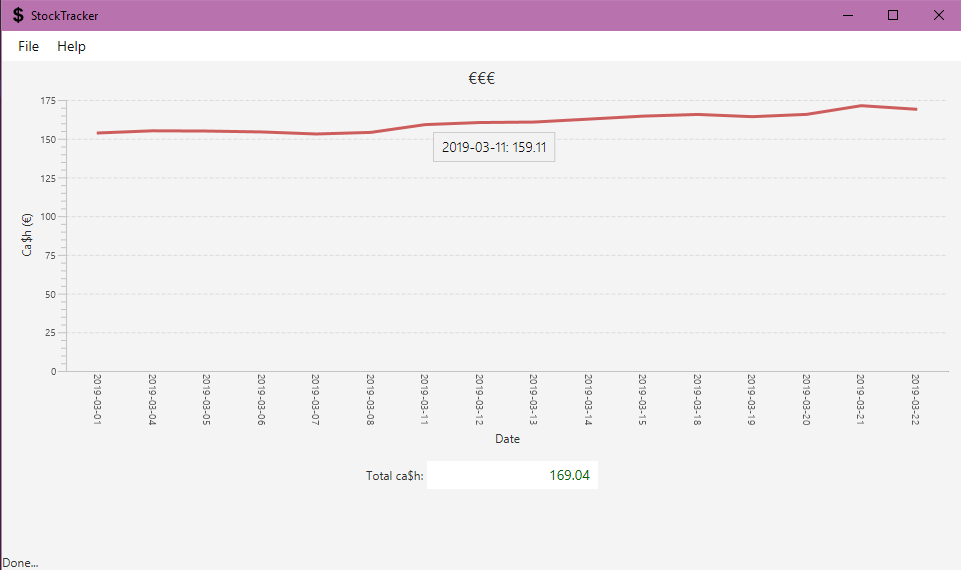
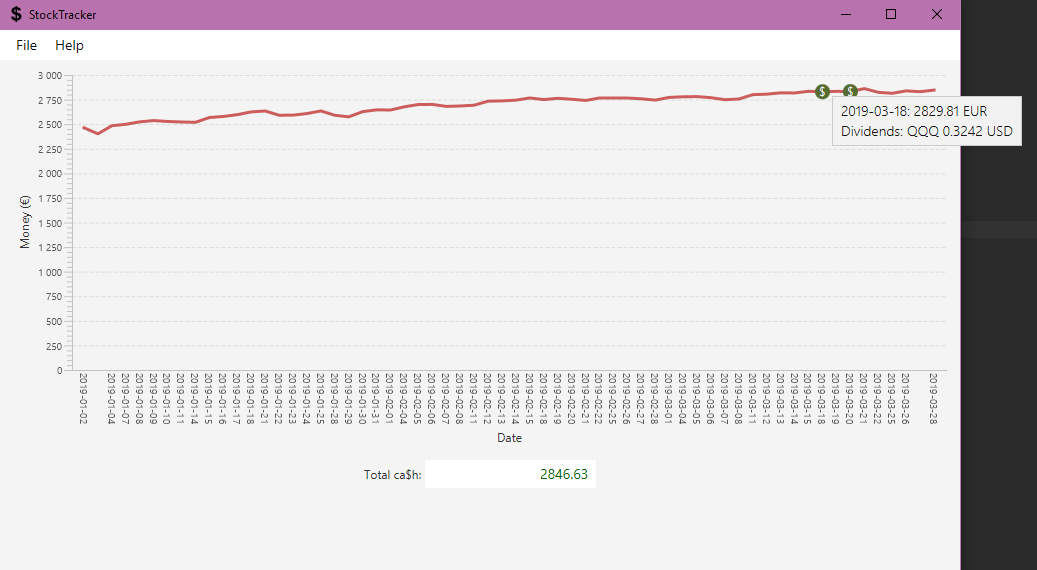
full support for displaying dividends + readme specifications

diff --git a/src/main/java/stocktracker/StockTrackerGUI.java b/src/main/java/stocktracker/StockTrackerGUI.java
@@ -7,16 +7,9 @@ import javafx.scene.Scene;
 import javafx.scene.chart.*;
 import javafx.scene.control.*;
 import javafx.scene.paint.Color;
-import javafx.scene.control.Button;
-import javafx.scene.control.Label;
-import javafx.scene.control.Menu;
-import javafx.scene.control.MenuBar;
-import javafx.scene.control.MenuItem;
-import javafx.scene.control.TextField;
 import javafx.scene.image.Image;
 import javafx.scene.layout.*;
 import javafx.scene.paint.ImagePattern;
-import javafx.scene.paint.Paint;
 import javafx.stage.Screen;
 import javafx.stage.Stage;
 import jfxtras.styles.jmetro8.JMetro;
@@ -24,10 +17,10 @@ import jfxtras.styles.jmetro8.JMetro;
 import java.io.File;
 import java.text.NumberFormat;
 import java.time.LocalDate;
-import java.util.ArrayList;
-import java.util.List;
+import java.util.*;
 
 //TODO: Add progress bars/loading indication
+//TODO: Add listener for pressing enter in "new tracker" scene as shortcut to go button
 
 public class StockTrackerGUI extends Application {
     private Stage primaryStage;
@@ -71,7 +64,7 @@ public class StockTrackerGUI extends Application {
         existingButton.setDisable(!new File(StockTracker.PATH + "save_config.csv").exists());
         existingButton.setOnAction(event -> {
             updateExistingData();
-            makeGraphScene(false);
+            makeGraphScene();
         });
         new JMetro(JMetro.Style.DARK).applyTheme(existingButton);
 
@@ -215,10 +208,10 @@ public class StockTrackerGUI extends Application {
         createConfig(dataList, amounts);
         calculateMoney(dataList, amounts);
         createSave();
-        makeGraphScene(true);
+        makeGraphScene();
     }
 
-    private void makeGraphScene(boolean newData) {
+    private void makeGraphScene() {
         VBox root = new VBox();
         setupMenuBar(root);
 
@@ -230,15 +223,22 @@ public class StockTrackerGUI extends Application {
         LineChart<String,Number> lineChart = new LineChart<>(xAxis,yAxis);
         lineChart.getStylesheets().add("style.css");
 
-        lineChart.setTitle("€€€");
         XYChart.Series<String, Number> series = new XYChart.Series<>();
-        //series.setName("My portfolio");
         double money = 0;
 
-        List<String> dividendList = FileManager.readLines(StockTracker.PATH + "save_dividends.csv");
-        List<String> divdates = new ArrayList<>();
-        for (String x: dividendList) {
-            divdates.add(x.split(",")[0]);
+        Map<String, String> dividendData = new HashMap<>();
+        for (String dividendEntry: FileManager.readLines(StockTracker.PATH + "save_dividends.csv")) {
+            String[] splitEntry = dividendEntry.split(",", 2);
+            String dividendInformation = "";
+            String[] split = splitEntry[1].split(",");
+            for (int i = 0; i < split.length; i++) {
+                String data = split[i];
+                dividendInformation = dividendInformation.concat(" " + data);
+                if (i % 3 == 0) {
+                    dividendInformation += "\n";
+                }
+            }
+            dividendData.put(splitEntry[0], splitEntry[1].replace(",", " "));
         }
 
         for (String line: FileManager.readLines(StockTracker.PATH + "save_data.csv")) {
@@ -247,15 +247,14 @@ public class StockTrackerGUI extends Application {
             String date = splitLine[0];
             XYChart.Data<String, Number> dataPoint = new XYChart.Data<>(date, money);
             dataPoint.setNode(new HoveredThresholdNode(date, money));
-            if (divdates.contains(date)) {
-                dataPoint.setNode(new DividendNode(date, money, "asd"));
+            if (dividendData.keySet().contains(date)) {
+                dataPoint.setNode(new DividendNode(date, money, "Dividends: " + dividendData.get(date)));
             }
             series.getData().add(dataPoint);
         }
         lineChart.setCreateSymbols(false);
         lineChart.setLegendVisible(false);
         lineChart.getData().add(series);
-        System.out.println("asd");
 
         HBox hBox = new HBox();
         Label label = new Label("Total ca$h: ");
@@ -317,12 +316,15 @@ public class StockTrackerGUI extends Application {
         }
     }
 
-    private class DividendNode extends HoveredThresholdNode {
+    private class DividendNode extends StackPane {
         private DividendNode(String date, Number value, String dividendInfo) {
-            super(date, value);
-            setBackground(new Background(new BackgroundFill(Color.DARKOLIVEGREEN, new CornerRadii(8), null)));
-            Tooltip tooltip = new Tooltip(date + ": " + value + "\n" + dividendInfo);
+            setPrefSize(15, 15);
+            setBackground(new Background(new BackgroundFill(Color.DARKOLIVEGREEN, new CornerRadii(12), null)));
+            Tooltip tooltip = new Tooltip(date + ": " + value + " EUR\n" + dividendInfo);
             Tooltip.install(this, tooltip);
+            Label dollarSign = new Label("$");
+            dollarSign.setStyle("-fx-text-fill: white");
+            this.getChildren().add(dollarSign);
         }
     }
 

diff --git a/src/main/java/stocktracker/DataAggregator.java b/src/main/java/stocktracker/DataAggregator.java
@@ -1,5 +1,7 @@
 package stocktracker;
 
+import yahoofinance.YahooFinance;
+
 import java.io.IOException;
 import java.util.*;
 
@@ -11,6 +13,8 @@ class DataAggregator {
 
     private static void test() throws IOException {
         ArrayList<String> testList = new ArrayList<>();
+        aggregateStock("QQQ", "USD");
+        aggregateStock("IVV", "USD");
         testList.add("QQQ");
         testList.add("IVV");
         ArrayList<Number> testAmounts = new ArrayList<>();
@@ -19,7 +23,7 @@ class DataAggregator {
         calculateMoney(testList, testAmounts);
     }
 
-    static void calculateMoney(List<String> tickers, List<Number> stockAmounts) throws IOException {
+    static void calculateMoney(List<String> tickers, List<Number> stockAmounts) {
         aggregateStocks(tickers);
         List<String> finalData = FileManager.readLines(StockTracker.PATH + "aggregated_temp.csv");
         List<String> dateMoney = new ArrayList<>();
@@ -125,17 +129,18 @@ class DataAggregator {
         FileManager.writeList(dest, writeList);
     }
 
-    private static void aggregateDividends(List<String> tickers) {
+    private static void aggregateDividends(List<String> tickers) throws IOException {
         Map<String, String> data = new HashMap<>();
         for (String ticker : tickers) {
+            String currencyCode = YahooFinance.get(ticker).getCurrency();
             List<String> fileLines = FileManager.readLines(StockTracker.PATH + ticker + "_dividend_temp.csv");
             for (String fileLine : fileLines) {
                 String date = fileLine.split(",")[0];
                 String dividend = fileLine.split(",")[1];
                 if (!data.containsKey(date)) {
-                    data.put(date, ticker + "," + dividend);
+                    data.put(date, ticker + "," + dividend + "," + currencyCode);
                 } else {
-                    data.put(date, data.get(date) + "," + ticker + "," + dividend);
+                    data.put(date, data.get(date) + "," + ticker + "," + dividend + "," + currencyCode);
 
                 }
             }

diff --git a/src/main/java/stocktracker/CurrencyRateFetcher.java b/src/main/java/stocktracker/CurrencyRateFetcher.java
@@ -29,9 +29,8 @@ class CurrencyRateFetcher {
     }
 
     public static void main(String[] args) throws IOException  {
-        writeCurrencyInfo("USD", LocalDate.of(2008, 3, 2));
-        //writeCurrencyInfo("USD", LocalDate.now().minusDays(365));
-        //writeCurrencyInfo("EUR", LocalDate.now().minusDays(365));
+        writeCurrencyInfo("USD", LocalDate.now().minusDays(365));
+        writeCurrencyInfo("EUR", LocalDate.now().minusDays(365));
     }
 
     static void writeCurrencyInfo(String currencyCode, LocalDate firstDate) throws IOException {
@@ -87,7 +86,7 @@ class CurrencyRateFetcher {
         }
 
         /**
-         * If anything ever breaks, use this:
+         * If anything breaks here, use this:
          * https://www.mkyong.com/java/how-to-read-xml-file-in-java-dom-parser/
          */
         private List<String> parse() {

diff --git a/src/main/java/stocktracker/StockInfoFetcher.java b/src/main/java/stocktracker/StockInfoFetcher.java
@@ -20,9 +20,9 @@ class StockInfoFetcher {
     }
 
     private static void test() {
-        //getData("AAPL", LocalDate.now().minusDays(35));
-        getData("BRK-B", LocalDate.now().minusDays(365));
-        //getData("QQQ", LocalDate.now().minusDays(365));
+        getData("AAPL", LocalDate.now().minusDays(35));
+        getData("IVV", LocalDate.now().minusDays(365));
+        getData("QQQ", LocalDate.now().minusDays(365));
     }
 
     static void getData(String ticker, LocalDate startDate, double splitCoefficient) {

diff --git a/src/test/java/stocktracker/DataAggregatorTest.java b/src/test/java/stocktracker/DataAggregatorTest.java
@@ -79,6 +79,7 @@ class DataAggregatorTest {
             List<String> dividendDataList = FileManager.readLines(PATH + "dividends_aggregated_temp.csv");
             if (dividendDataList.size() > 0) {
                 String[] dividendLine = dividendDataList.get(0).split(",");
+                assertTrue(dividendLine.length >= 3);
                 assertDoesNotThrow(() -> LocalDate.parse(dividendLine[0]));
                 assertDoesNotThrow(() -> Double.parseDouble(dividendLine[2]));
             }

diff --git a/src/main/java/stocktracker/StockTracker.java b/src/main/java/stocktracker/StockTracker.java
@@ -111,11 +111,7 @@ public class StockTracker {
      * @param stockAmounts List of amounts of stocks owned.
      */
     public static void calculateMoney(List<String> tickers, List<Number> stockAmounts) {
-        try {
-            DataAggregator.calculateMoney(tickers, stockAmounts);
-        } catch (IOException e) {
-            System.out.println("Something went horrendously wrong");
-        }
+        DataAggregator.calculateMoney(tickers, stockAmounts);
     }
 
     /**

diff --git a/README.md b/README.md
@@ -12,11 +12,12 @@ For functional usage navigate to "Help -> Getting Started" from the menu bar of 
 
 ## Built With
 
-* [Java 8](https://www.oracle.com/technetwork/java/javase/overview/java8-2100321.html) - Programming language used
+* [Java 8](https://www.oracle.com/technetwork/java/javase/overview/java8-2100321.html) - The programming language used
 * [Maven](https://maven.apache.org/) - Dependency Management, project building and deployment
 * [Alpha Vantage API](https://www.alphavantage.co/) - API for fetching stock price data
-* [Quotes API for Yahoo Finance](https://financequotes-api.com/) - API for fetching additional stock data (e.g. currency it's traded in)
-* [ECB SDMX 2.1 RESTful web service](https://sdw-wsrest.ecb.europa.eu/help/) - API for fetching currency exchange rate data
+* [Quotes API for Yahoo Finance] (https://financequotes-api.com/) - API for fetching additional stock data
+* [ECB SDMX 2.1 RESTful web service](https://sdw-wsrest.ecb.europa.eu/help/) - API for fetching currency data
+* [JavaFX](https://openjfx.io/), [JUnit 5](https://junit.org/junit5/)
 
 ## Authors
 
